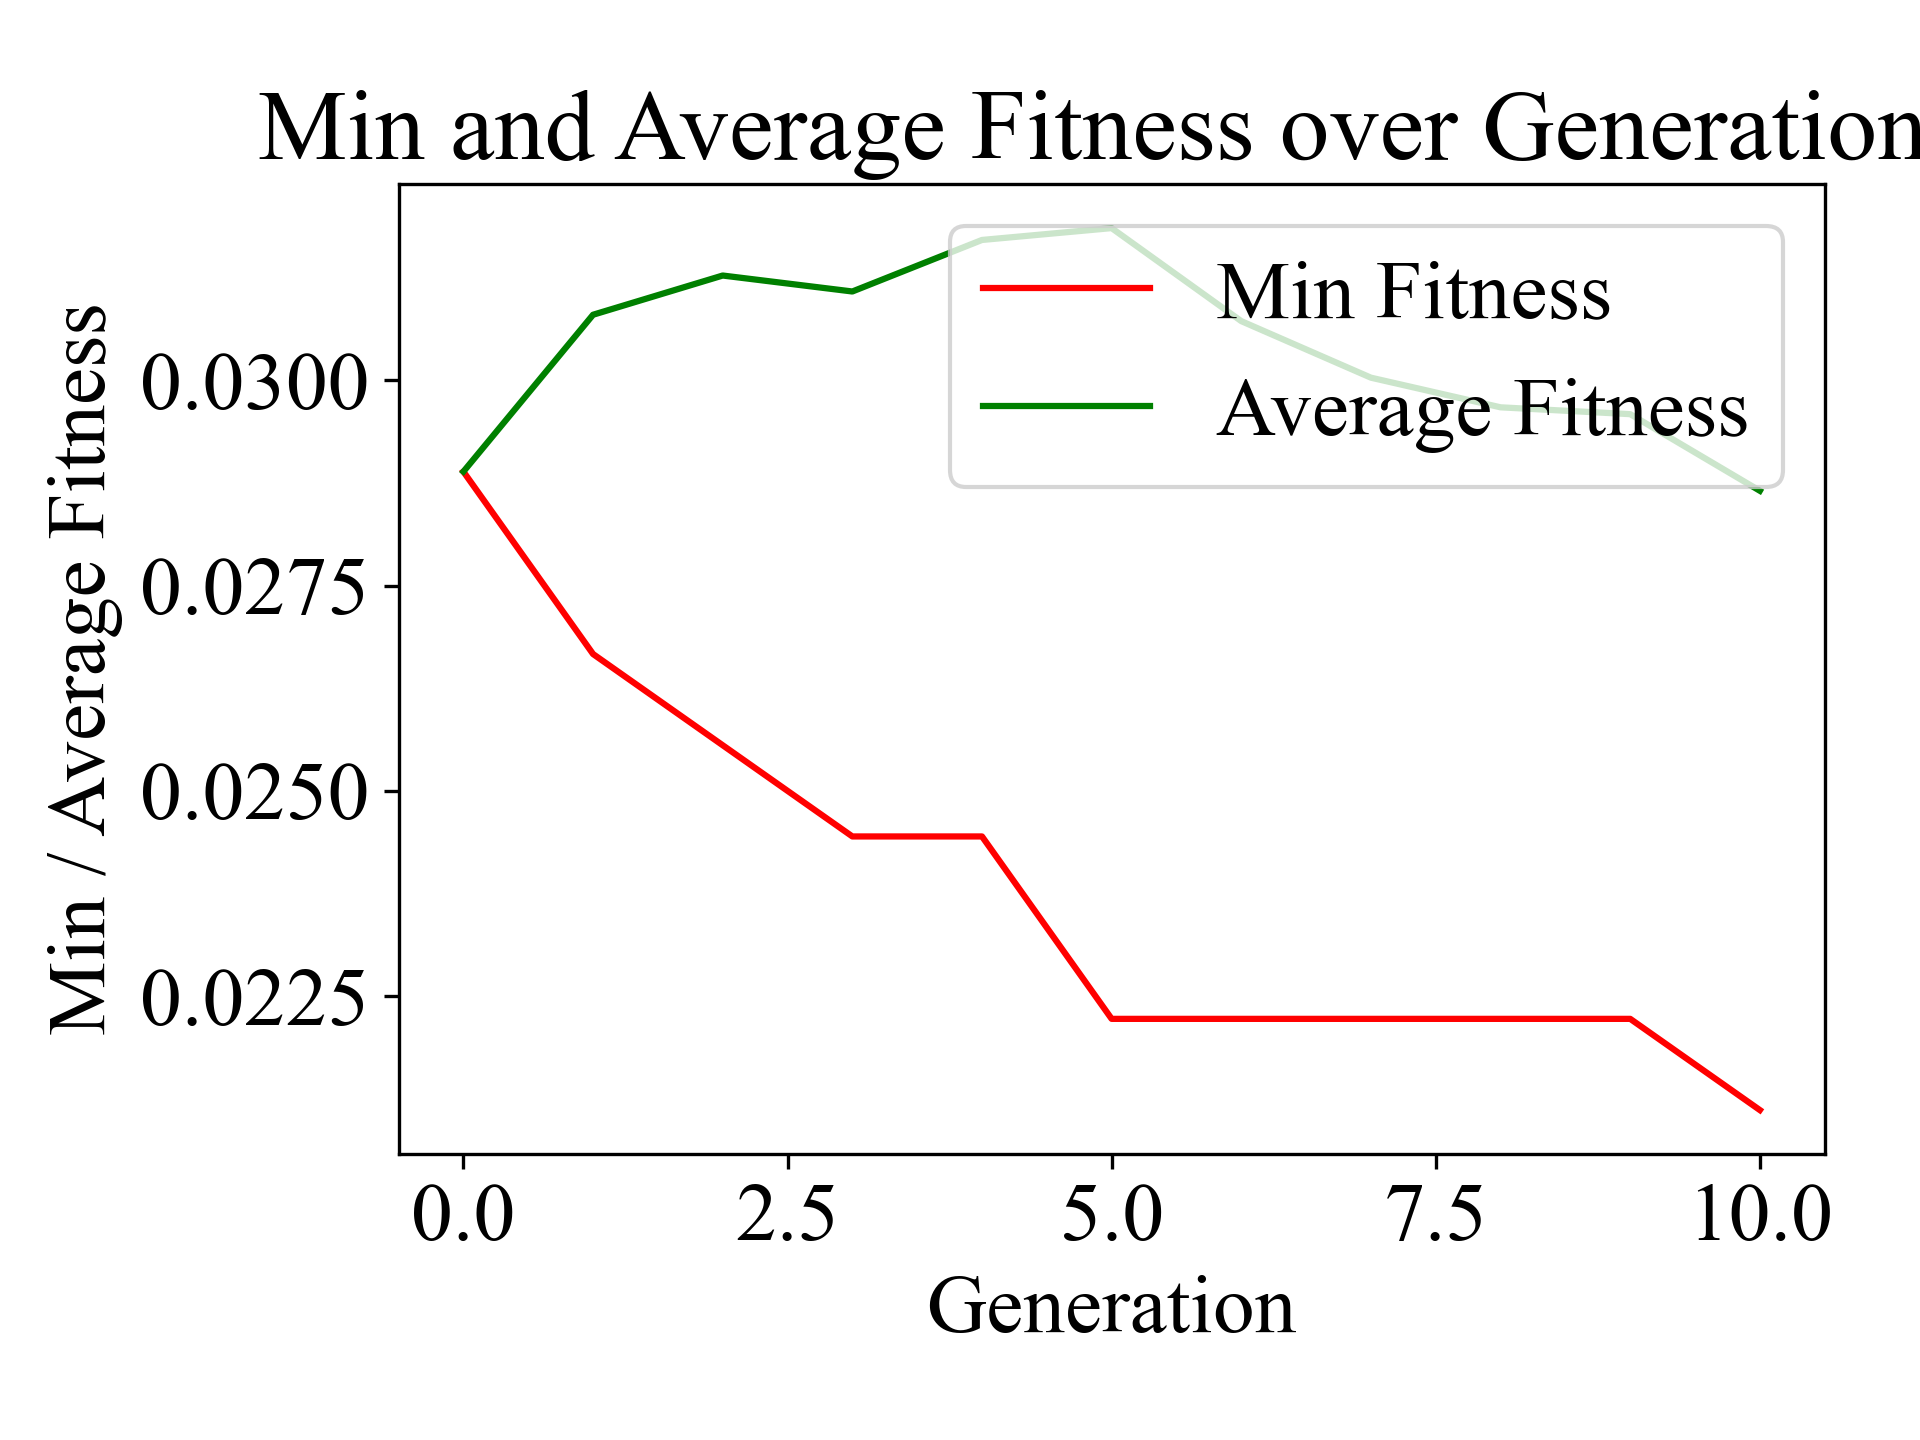
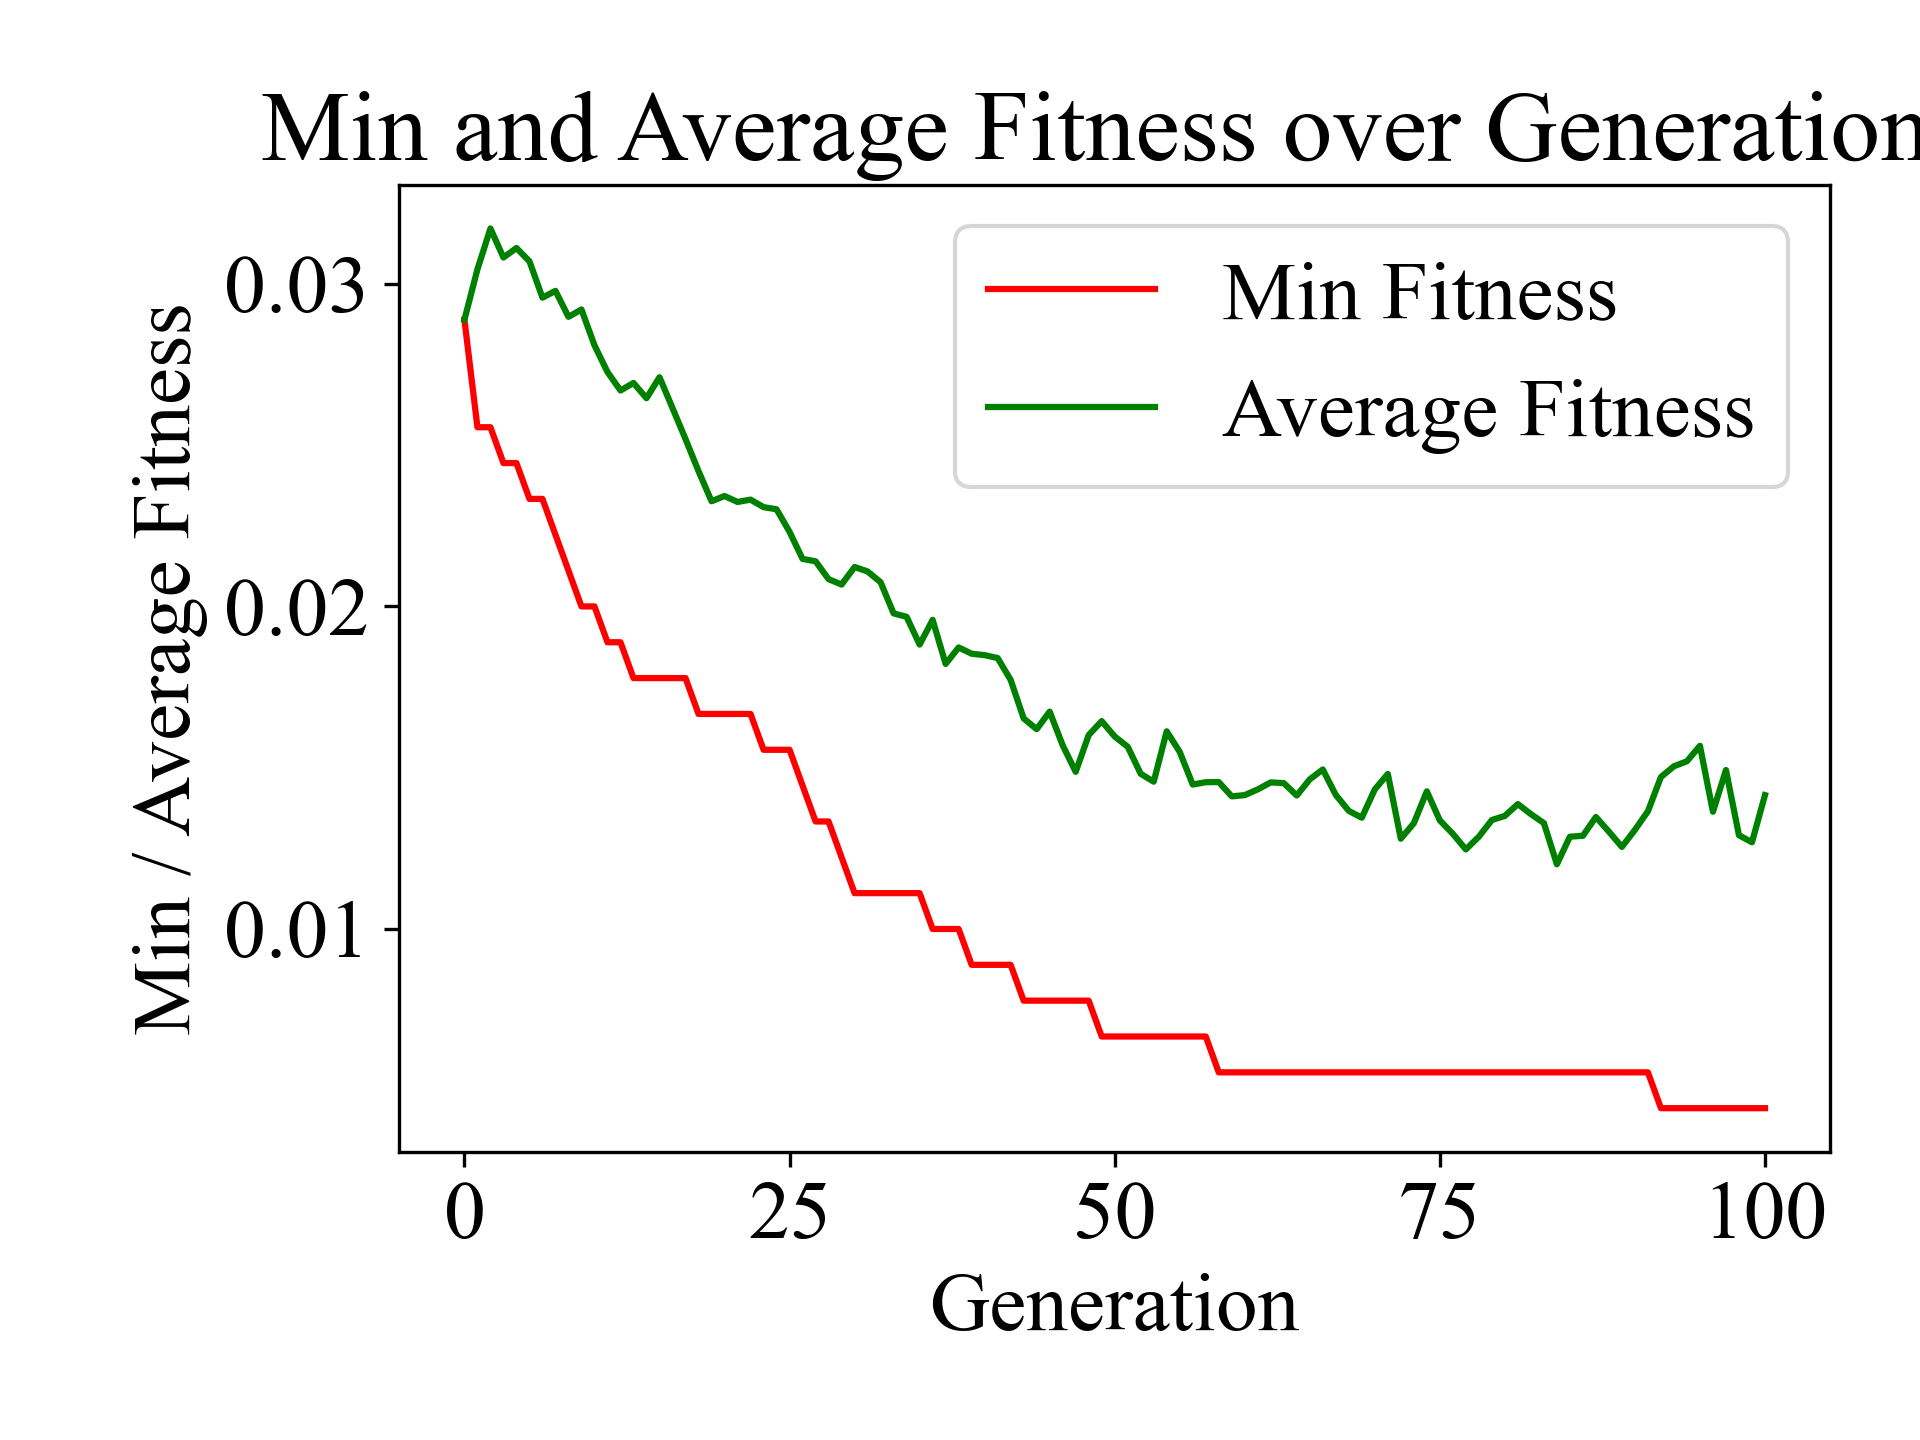
update TCC

diff --git a/core/lithography_simulation.py b/core/lithography_simulation.py
@@ -1,44 +1,194 @@
 import numpy as np
 from scipy.fft import fft2, ifft2, fftshift, ifftshift
+from scipy.integrate import simpson
 from config.parameters import *
 
 
-def transfer_function(fx, fy, lambda_=LAMBDA, z=Z, n=N):
-    H = np.exp(-1j * np.pi * lambda_ * z * (fx ** 2 + fy ** 2) / n ** 2)#与原文中的霍普金斯存在偏差
-    return H
+def dmd_modulation(M_xy, Wx=WX, Wy=WY, Tx=TX, Ty=TY, dx=DX, dy=DY):
+    """
+    DMD调制函数
+    """
+    M, N = M_xy.shape
+
+    # 1. 梳状函数 comb(x/Tx, y/Ty)
+    samples_x = int(np.round(Tx / dx))
+    samples_y = int(np.round(Ty / dy))
+
+    comb_x = np.zeros(samples_x)
+    comb_y = np.zeros(samples_y)
+
+    # 在周期位置设置脉冲
+    comb_x[0] = 1
+    comb_y[0] = 1
+
+    # 构建二维梳状函数
+    comb_xy = np.outer(comb_x, comb_y)
+
+    # 2. 矩形函数 rect(x/Wx, y/Wy)
+    rect_samples_x = int(np.round(Wx / dx))
+    rect_samples_y = int(np.round(Wy / dy))
+
+    rect_x = np.zeros(samples_x)
+    rect_y = np.zeros(samples_y)
+
+    # 在中心位置设置矩形窗口
+    start_x = (samples_x - rect_samples_x) // 2
+    end_x = start_x + rect_samples_x
+    start_y = (samples_y - rect_samples_y) // 2
+    end_y = start_y + rect_samples_y
+
+    rect_x[start_x:end_x] = 1
+    rect_y[start_y:end_y] = 1
+
+    # 构建二维矩形函数
+    rect_xy = np.outer(rect_x, rect_y)
+
+    # 3. 构建调制函数 (1/Tx*Ty) * [rect * comb]
+    modulated_rc = (1 / (Tx * Ty)) * np.convolve(rect_xy.flatten(), comb_xy.flatten(), mode='same').reshape(
+        rect_xy.shape)
+
+    # 4. 掩模M(x,y)调制
+    expand_M = np.zeros((M * samples_x, N * samples_y))
+
+    for i in range(M):
+        for j in range(N):
+            start_row = i * samples_x
+            start_col = j * samples_y
+            end_row = (i + 1) * samples_x
+            end_col = (j + 1) * samples_y
+
+            # 调制窗口
+            expand_M[start_row:end_row, start_col:end_col] = M_xy[i, j] * modulated_rc
+
+    return expand_M
+
+
+def compute_frequency(dx=DX, dy=DY, lx=LX, ly=LY):
+    """
+    计算频率坐标
+    """
+    fx = np.linspace(-1 / (2 * dx), 1 / (2 * dx), lx)
+    fy = np.linspace(-1 / (2 * dy), 1 / (2 * dy), ly)
+
+    Fx, Fy = np.meshgrid(fx, fy, indexing='ij')
+    return Fx, Fy
 
 
 def light_source_function(fx, fy, sigma=SIGMA, na=NA, lambda_=LAMBDA):
-    condition = (fx ** 2 + fy ** 2) <= (sigma * na / lambda_) ** 2
-    J = np.where(condition, (lambda_ ** 2) / (np.pi * (sigma * na) ** 2), 0)
+    """
+    光源函数
+    """
+    r = np.sqrt(fx ** 2 + fy ** 2)
+    r_max = sigma * na / lambda_
+    J = np.where(r <= r_max, lambda_ ** 2 / (np.pi * (sigma * na) ** 2), 0)
     return J
 
 
-def impulse_response_function(fx, fy, na=NA, lambda_=LAMBDA):
-    condition = (fx ** 2 + fy ** 2) <= (na / lambda_) ** 2
-    P = np.where(condition, (lambda_ ** 2) / (np.pi * na ** 2), 0)
+def pupil_response_function(fx, fy, na=NA, lambda_=LAMBDA):
+    """
+    光瞳响应函数
+    """
+    r = np.sqrt(fx ** 2 + fy ** 2)
+    r_max = na / lambda_
+    P = np.where(r <= r_max, 1.0, 0)  # 简化为单位振幅
     return P
 
 
-def compute_tcc(J, P, fx, fy):
-    tcc = np.convolve(J(fx, fy) * P(fx, fy), J(fx, fy) * P(fx, fy), mode='same')
+def compute_tcc_full(fx, fy, J, P, sigma=SIGMA, na=NA, lambda_=LAMBDA):
+    """
+    完整的四维TCC计算 - 按照伪代码实现
+    """
+    Lx, Ly = fx.shape
+
+    # 初始化四维TCC矩阵
+    tcc = np.zeros((Lx, Ly, Lx, Ly), dtype=complex)
+
+    # 预计算光源函数网格
+    J_grid = light_source_function(fx, fy, sigma, na, lambda_)
+
+    # 计算TCC - 四重循环（注意：计算量很大，适合小尺寸）
+    for i_prime in range(Lx):  # fx'
+        for j_prime in range(Ly):  # fy'
+            for i_dprime in range(Lx):  # fx''
+                for j_dprime in range(Ly):  # fy''
+
+                    # 创建被积函数
+                    integrand = np.zeros((Lx, Ly), dtype=complex)
+                    print("Tcc ...")
+                    for m in range(Lx):
+                        for n in range(Ly):
+                            # 计算P(f+f', g+g')
+                            P_original = pupil_response_function(
+                                fx[m, n] + fx[i_prime, j_prime],
+                                fy[m, n] + fy[i_prime, j_prime],
+                                na, lambda_
+                            )
+
+                            # 计算P*(f+f'', g+g'')
+                            P_conj = np.conj(pupil_response_function(
+                                fx[m, n] + fx[i_dprime, j_dprime],
+                                fy[m, n] + fy[i_dprime, j_dprime],
+                                na, lambda_
+                            ))
+
+                            integrand[m, n] = J_grid[m, n] * P_original * P_conj
+
+                    # 二重积分
+                    integral_y = np.zeros(Lx, dtype=complex)
+                    for i in range(Lx):
+                        integral_y[i] = simpson(integrand[i, :], fy[i, :])
+
+                    tcc_value = simpson(integral_y, fx[:, 0])
+                    tcc[i_prime, j_prime, i_dprime, j_dprime] = tcc_value
+
     return tcc
 
 
-def hopkins_digital_lithography_simulation(mask, lambda_=LAMBDA, lx=LX, ly=LY,
-                                           z=Z, dx=DX, dy=DY, n=N, sigma=SIGMA, na=NA):
-    fx = np.linspace(-0.5 / dx, 0.5 / dx, lx)
-    fy = np.linspace(-0.5 / dy, 0.5 / dy, ly)
+def hopkins_digital_lithography_simulation(mask, lambda_=LAMBDA, na=NA, sigma=SIGMA,
+                               Wx=WX, Wy=WY, Tx=TX, Ty=TY, dx=DX, dy=DY):
+    """
+    Hopkins成像模拟 - 按照伪代码实现完整流程
+    """
+    # 1. DMD调制
+    M_prime = dmd_modulation(mask, Wx, Wy, Tx, Ty, dx, dy)
 
-    J = lambda fx, fy: light_source_function(fx, fy, sigma, na, lambda_)
-    P = lambda fx, fy: impulse_response_function(fx, fy, na, lambda_)
+    # 2. 计算空间频率坐标
+    Lx, Ly = M_prime.shape
+    fx = np.fft.fftfreq(Lx, dx)
+    fy = np.fft.fftfreq(Ly, dy)
+    Fx, Fy = np.meshgrid(fx, fy, indexing='ij')
 
-    tcc = compute_tcc(J, P, fx, fy)
-    M_fft = fftshift(fft2(mask))
-    filtered_fft = M_fft * tcc
+    # 3. 计算光源函数
+    J = light_source_function(Fx, Fy, sigma, na, lambda_)
 
-    H = transfer_function(fx, fy, lambda_, z, n)
-    result_fft = filtered_fft * H
+    # 4. 计算光瞳响应函数
+    P = pupil_response_function(Fx, Fy, na, lambda_)
 
-    result = ifft2(ifftshift(result_fft))
-    return np.abs(result)
+    # 5. 计算TCC（简化版，实际应用可能需要优化）
+    # 注意：完整TCC计算非常耗时，对于大尺寸图像需要优化
+    TCC = compute_tcc_full(Fx, Fy, J, P, sigma, na, lambda_)
+
+    # 6. 计算掩模频谱
+    M_fft = fftshift(fft2(M_prime))
+
+    # 7. Hopkins成像计算
+    I_mask = np.zeros_like(M_fft, dtype=complex)
+
+    # 四维积分实现
+    for i_prime in range(Lx):  # fx'
+        for j_prime in range(Ly):  # fy'
+            for i_dprime in range(Lx):  # fx''
+                for j_dprime in range(Ly):  # fy''
+                    I_mask[i_prime, j_prime] += (
+                            TCC[i_prime, j_prime, i_dprime, j_dprime] *
+                            M_fft[i_prime, j_prime] *
+                            np.conj(M_fft[i_dprime, j_dprime])
+                    )
+                    print("simpon ...")
+    I_xy = np.abs(ifft2(ifftshift(I_mask)))
+
+    return I_xy
+
+
+
+

diff --git a/config/parameters.py b/config/parameters.py
@@ -5,14 +5,21 @@ import matplotlib.pyplot as plt
 LAMBDA = 405  # 波长（单位：纳米）
 Z = 803000000  # 距离（单位：纳米）
 DX = DY = 7560  # 每个微镜的尺寸（单位：纳米）
-LX = LY = 2048  # 图像尺寸（单位：像素）
+LX = LY = 30  # 图像尺寸（单位：像素）
 N = 1.5  # 折射率（无量纲）
 SIGMA = 0.5  # 部分相干因子（无量纲）
 NA = 0.5  # 数值孔径（无量纲）
 
+# DMD调制参数（添加到parameters.py中）
+WX = 7560  # 微镜宽度（单位：纳米）
+WY = 7560  # 微镜高度（单位：纳米）
+TX = 7560  # 微镜周期（x方向）（单位：纳米）
+TY = 7560  # 微镜周期（y方向）（单位：纳米）
+
+
 # 遗传算法参数
 POPULATION_SIZE = 200
-GENERATIONS = 10
+GENERATIONS = 100
 CXPB = 0.4  # 交叉概率
 MUTPB = 0.4  # 变异概率
 NOISE_SCALE = 0.02  # 初始噪声比例
@@ -20,11 +27,11 @@ TOURNSIZE = 3  # 锦标赛选择的大小
 INDPB = 0.02  # 个体变异概率
 
 # 文件路径
-INITIAL_MASK_PATH = "../The_cross-transfer_coefficient/data/input/cell0.png"
-TARGET_IMAGE_PATH = "../The_cross-transfer_coefficient/data/input/cell0.png"
-OUTPUT_MASK_PATH = "../The_cross-transfer_coefficient/data/output/optimized_mask_cell0.png"
-RESULTS_IMAGE_PATH = "../The_cross-transfer_coefficient/data/output/results_comparison_cell0.png"
-FITNESS_PLOT_PATH = "../The_cross-transfer_coefficient/data/output/fitness_evolution_cell0.png"
+INITIAL_MASK_PATH = "../The_cross-transfer_coefficient/data/input/mask01.png"
+TARGET_IMAGE_PATH = "../The_cross-transfer_coefficient/data/input/mask01.png"
+OUTPUT_MASK_PATH = "../The_cross-transfer_coefficient/data/output/optimized_mask_mask01.png"
+RESULTS_IMAGE_PATH = "../The_cross-transfer_coefficient/data/output/results_comparison_mask01.png"
+FITNESS_PLOT_PATH = "../The_cross-transfer_coefficient/data/output/fitness_evolution_mask01.png"
 
 # 可视化参数
 plt.rcParams['font.sans-serif'] = ['SimHei']  # 设置字体为SimHei

diff --git a/core/lithography_simulation_source.py b/core/lithography_simulation_source.py
@@ -1,0 +1,44 @@
+import numpy as np
+from scipy.fft import fft2, ifft2, fftshift, ifftshift
+from config.parameters import *
+
+
+def transfer_function(fx, fy, lambda_=LAMBDA, z=Z, n=N):
+    H = np.exp(-1j * np.pi * lambda_ * z * (fx ** 2 + fy ** 2) / n ** 2)#与原文中的霍普金斯存在偏差
+    return H
+
+
+def light_source_function(fx, fy, sigma=SIGMA, na=NA, lambda_=LAMBDA):
+    condition = (fx ** 2 + fy ** 2) <= (sigma * na / lambda_) ** 2
+    J = np.where(condition, (lambda_ ** 2) / (np.pi * (sigma * na) ** 2), 0)
+    return J
+
+
+def impulse_response_function(fx, fy, na=NA, lambda_=LAMBDA):
+    condition = (fx ** 2 + fy ** 2) <= (na / lambda_) ** 2
+    P = np.where(condition, (lambda_ ** 2) / (np.pi * na ** 2), 0)
+    return P
+
+
+def compute_tcc(J, P, fx, fy):
+    tcc = np.convolve(J(fx, fy) * P(fx, fy), J(fx, fy) * P(fx, fy), mode='same')
+    return tcc
+
+
+def hopkins_digital_lithography_simulation(mask, lambda_=LAMBDA, lx=LX, ly=LY,
+                                           z=Z, dx=DX, dy=DY, n=N, sigma=SIGMA, na=NA):
+    fx = np.linspace(-0.5 / dx, 0.5 / dx, lx)
+    fy = np.linspace(-0.5 / dy, 0.5 / dy, ly)
+
+    J = lambda fx, fy: light_source_function(fx, fy, sigma, na, lambda_)
+    P = lambda fx, fy: impulse_response_function(fx, fy, na, lambda_)
+
+    tcc = compute_tcc(J, P, fx, fy)
+    M_fft = fftshift(fft2(mask))
+    filtered_fft = M_fft * tcc
+
+    H = transfer_function(fx, fy, lambda_, z, n)
+    result_fft = filtered_fft * H
+
+    result = ifft2(ifftshift(result_fft))
+    return np.abs(result)

diff --git a/core/genetic_algorithm.py b/core/genetic_algorithm.py
@@ -1,7 +1,7 @@
 import numpy as np
 from deap import base, creator, tools, algorithms
 from config.parameters import *
-from core.lithography_simulation import hopkins_digital_lithography_simulation
+from core.lithography_simulation_source import hopkins_digital_lithography_simulation
 from utils.image_processing import binarize_image
 
 # 创建适应度和个体类
